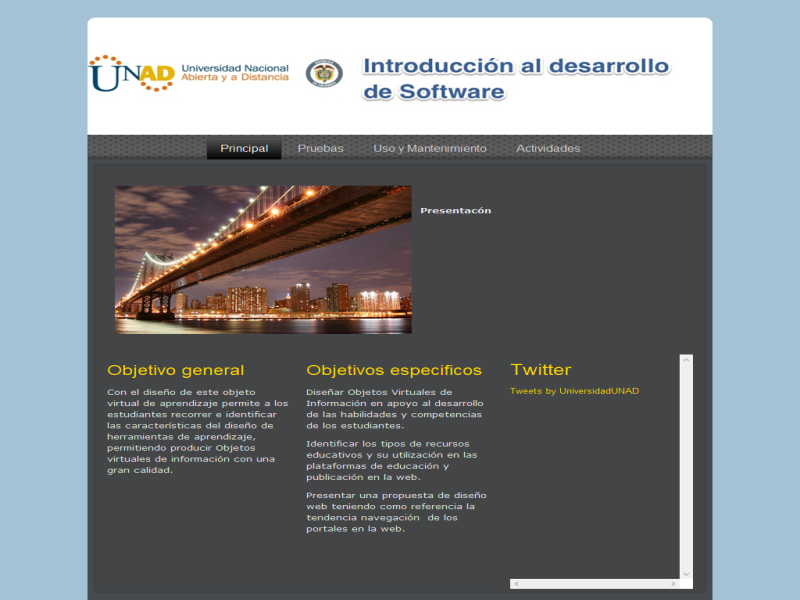
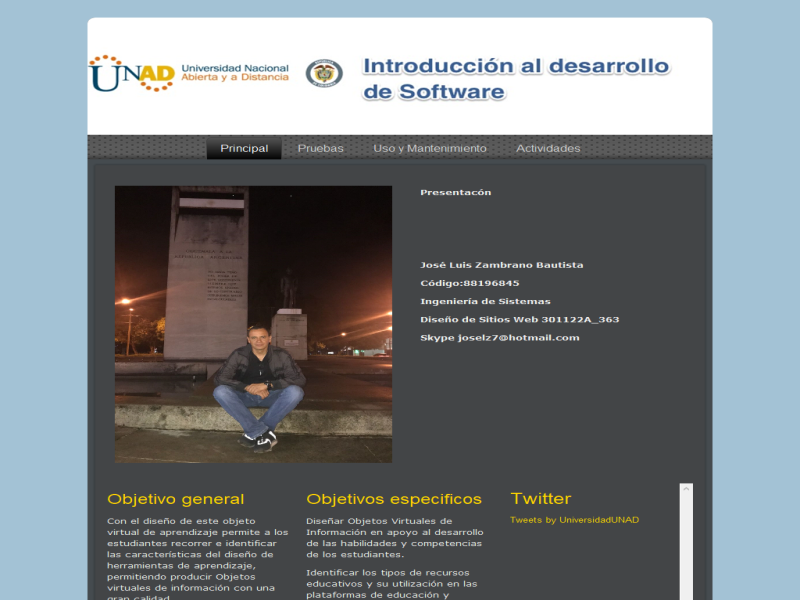
insertar foto

diff --git a/index.html b/index.html
@@ -48,10 +48,17 @@
 <div class="art-content-layout">
     <div class="art-content-layout-row">
     <div class="art-layout-cell layout-item-1" style="width: 52%" >
-        <img alt="" width="380" height="253" src="images/shutterstock_2135213.jpg" class="">
+        <img width="355" height="473" alt="" class="art-lightbox" src="images/IMG-20171024-WA0047.jpg">
     </div><div class="art-layout-cell layout-item-1" style="width: 48%" >
-        <p class="MsoNormal"><b><span style="font-family: Verdana, sans-serif;"><br></span></b><span style="font-family: Verdana, sans-serif;"></span></p>
-        <p class="MsoNormal"><span style="font-family: Verdana, sans-serif; font-weight: bold;">Presentacón</span></p>
+        <p class="MsoNormal"><span style="font-family: Verdana, sans-serif; font-weight: bold;">Presentacón</span><br></p>
+        <p class="MsoNormal"><span style="font-family: Verdana, sans-serif; font-weight: bold;"><br></span></p>
+        <p class="MsoNormal"><span style="font-family: Verdana, sans-serif; font-weight: bold;"><br></span></p>
+        <p class="MsoNormal"><span style="font-family: Verdana, sans-serif; font-weight: bold;"><br></span></p>
+        <p class="MsoNormal"><span style="font-family: Verdana, sans-serif; font-weight: bold;">José Luis Zambrano Bautista</span></p>
+        <p class="MsoNormal"><span style="font-family: Verdana, sans-serif; font-weight: bold;">Código:88196845</span></p>
+        <p class="MsoNormal"><span style="font-family: Verdana, sans-serif; font-weight: bold;">Ingeniería de Sistemas&nbsp;</span></p>
+        <p class="MsoNormal"><span style="font-family: Verdana, sans-serif; font-weight: bold;">Diseño de Sitios Web&nbsp;301122A_363</span></p>
+        <p class="MsoNormal"><span style="font-family: Verdana, sans-serif; font-weight: bold;">Skype joselz7@hotmail.com</span></p>
         <p><span style="font-weight: bold;"></span></p>
     </div>
     </div>

diff --git a/principal.html b/principal.html
@@ -48,10 +48,17 @@
 <div class="art-content-layout">
     <div class="art-content-layout-row">
     <div class="art-layout-cell layout-item-1" style="width: 52%" >
-        <img alt="" width="380" height="253" src="images/shutterstock_2135213.jpg" class="">
+        <img width="355" height="473" alt="" class="art-lightbox" src="images/IMG-20171024-WA0047.jpg">
     </div><div class="art-layout-cell layout-item-1" style="width: 48%" >
-        <p class="MsoNormal"><b><span style="font-family: Verdana, sans-serif;"><br></span></b><span style="font-family: Verdana, sans-serif;"></span></p>
-        <p class="MsoNormal"><span style="font-family: Verdana, sans-serif; font-weight: bold;">Presentacón</span></p>
+        <p class="MsoNormal"><span style="font-family: Verdana, sans-serif; font-weight: bold;">Presentacón</span><br></p>
+        <p class="MsoNormal"><span style="font-family: Verdana, sans-serif; font-weight: bold;"><br></span></p>
+        <p class="MsoNormal"><span style="font-family: Verdana, sans-serif; font-weight: bold;"><br></span></p>
+        <p class="MsoNormal"><span style="font-family: Verdana, sans-serif; font-weight: bold;"><br></span></p>
+        <p class="MsoNormal"><span style="font-family: Verdana, sans-serif; font-weight: bold;">José Luis Zambrano Bautista</span></p>
+        <p class="MsoNormal"><span style="font-family: Verdana, sans-serif; font-weight: bold;">Código:88196845</span></p>
+        <p class="MsoNormal"><span style="font-family: Verdana, sans-serif; font-weight: bold;">Ingeniería de Sistemas&nbsp;</span></p>
+        <p class="MsoNormal"><span style="font-family: Verdana, sans-serif; font-weight: bold;">Diseño de Sitios Web&nbsp;301122A_363</span></p>
+        <p class="MsoNormal"><span style="font-family: Verdana, sans-serif; font-weight: bold;">Skype joselz7@hotmail.com</span></p>
         <p><span style="font-weight: bold;"></span></p>
     </div>
     </div>
